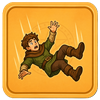
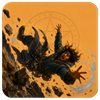
Update images

diff --git a/M.A.G.U.S/Classes/Believer/GodsOfPyarron/AdronPriest.cs b/M.A.G.U.S/Classes/Believer/GodsOfPyarron/AdronPriest.cs
@@ -37,7 +37,7 @@ public class AdronPriest : Priest
 			[
 				new Alchemy(),
 				new LegendLore(QualificationLevel.Master),
-                new MagicUsage(),
+                new Spellcasting(),
                 new Healing(QualificationLevel.Master),
 				new AncientTongueLore()
             ]);
@@ -53,7 +53,7 @@ public class AdronPriest : Priest
 			result.AddRange(
 			[
 				new Physiology(level: 2),
-				new MagicUsage(QualificationLevel.Master, level: 2),
+				new Spellcasting(QualificationLevel.Master, level: 2),
                 new Herbalism(level: 4),
 				new Alchemy(QualificationLevel.Master, level: 6),
 				new AncientTongueLore(QualificationLevel.Master, 7)